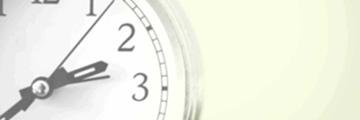
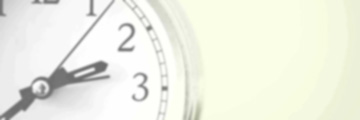
smushed img again

diff --git a/index.html b/index.html
@@ -47,6 +47,7 @@
     </div>
   </header>
 
+<div class="back">
   <div class="embed embed--3by1 hero push-0 boryel">
       <img class="embed__item" src="img/workstationyellow-1.jpg" alt="">
   </div>
@@ -55,6 +56,7 @@
       <h2 class="yotta push-0">Anyone can learn to code</h2>
       <h3 class="peta push-0"><a href="signup.html">Sign up</a> now and recieve two free months of <a href="signup.html">Enterprise Plan.</a></h3>
   </div>
+</div>
 
 
 
@@ -82,16 +84,16 @@
 
 
 
+<div class="back">
+    <div class="embed embed--3by1 hero push-0">
+        <img class="embed__item" src="img/newchair.jpg" alt="">
+    </div>
 
-<div class="embed embed--3by1 hero push-0">
-    <img class="embed__item" src="img/newchair.jpg" alt="">
+    <div class="bar">
+        <h2 class="yotta push-0">Take the tour</h2>
+        <h3 class="peta push-0">Learn more about us. <a href="tour.html">Check us out</a> today!</h3>
+    </div>
 </div>
-
-<div class="bar">
-    <h2 class="yotta push-0">Take the tour</h2>
-    <h3 class="peta push-0">Learn more about us. <a href="tour.html">Check us out</a> today!</h3>
-</div>
-
 
 
 
@@ -115,14 +117,15 @@
 </div>
 
 
+<div class="back">
+    <div class="embed embed--3by1 hero push-0">
+        <img class="embed__item" src="img/clock.jpg" alt="">
+    </div>
 
-<div class="embed embed--3by1 hero push-0">
-    <img class="embed__item" src="img/clock.jpg" alt="">
-</div>
-
-<div class="bar push-0" role="successstories" id="successstories">
-    <h2 class="yotta push-0">Your future is bright</h2>
-    <h3 class="peta push-0">Find your dream job. <a href="#signup.html">Join Smart-Path</a> for free.</h3>
+    <div class="bar push-0" role="successstories" id="successstories">
+        <h2 class="yotta push-0">Your future is bright</h2>
+        <h3 class="peta push-0">Find your dream job. <a href="#signup.html">Join Smart-Path</a> for free.</h3>
+    </div>
 </div>
 
 

diff --git a/tour.html b/tour.html
@@ -46,15 +46,16 @@
     </div>
   </header>
 
+<div class="back">
+        <div class="embed embed--3by1 hero boryel">
+            <img class="embed__item" src="img/boardroom.jpg" alt="">
+        </div>
 
-      <div class="embed embed--3by1 hero boryel">
-          <img class="embed__item" src="img/boardroom.jpg" alt="">
-      </div>
-
-  <div class="bar">
-      <h2 class="yotta push-0">Take the tour</h2>
-      <h3 class="peta push-0"><a href="signup.html">Sign up</a> now and recieve two free months of <a href="signup.html">Enterprise Plan.</a></h3>
-  </div>
+    <div class="bar">
+        <h2 class="yotta push-0">Take the tour</h2>
+        <h3 class="peta push-0"><a href="signup.html">Sign up</a> now and recieve two free months of <a href="signup.html">Enterprise Plan.</a></h3>
+    </div>
+</div>
 
   <div class="grid island greyb" role="teamplayer" id="teamplayer">
     <div class="unit unit-xs-1 unit-s-1 unit-m-1-2 unit-l-1-2 island ">

diff --git a/signup.html b/signup.html
@@ -48,7 +48,7 @@
     </div>
   </header>
 
-
+<div class="back">
   <div class="embed embed--3by1 hero push-0 boryel">
       <img class="embed__item" src="img/getstarted.jpg" alt="">
   </div>
@@ -57,7 +57,7 @@
       <h2 class="yotta push-0">Sign up</h2>
       <h3 class="peta">And get started today</h3>
   </div>
-
+</div>
 
 
 

diff --git a/css/main.css b/css/main.css
@@ -157,6 +157,10 @@ blockquote {
   border-radius: 100px 0 100px 100px;
 }
 
+.back {
+  background-color: #f3f3f3;
+}
+
 
 
 /*experiment---http://designscrazed.org/html-css3-social-media-buttons*/
